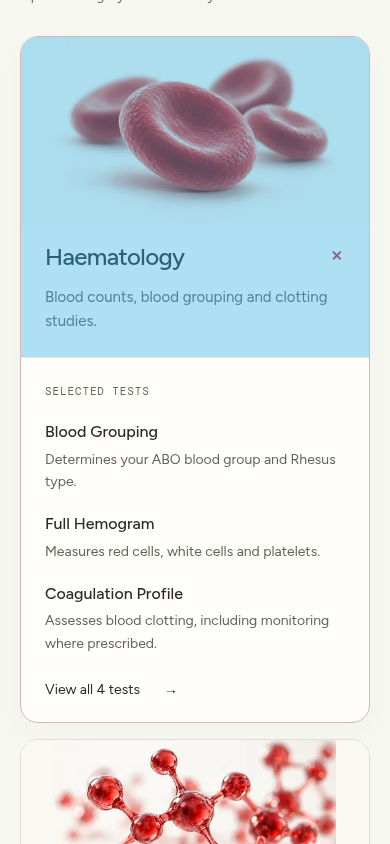
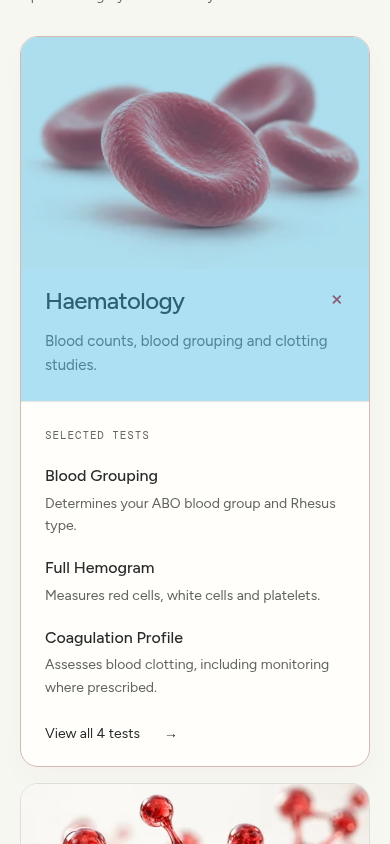
Fit service images edge to edge at their natural aspect ratio

Changed region(s): [[0.0308, 0.0616, 0.9538, 0.8318], [0.1231, 0.8626, 0.9538, 1.0], [0.9231, 0.8318, 0.9538, 0.8626]]

diff --git a/src/style.css b/src/style.css
@@ -107,9 +107,9 @@
 @media(prefers-reduced-motion:reduce){.service-card,.service-art,.service-card-toggle{transition:none}}
 
 /* Photographic scientific studies: image-only motion, text remains still. */
-.service-card-visual{height:196px;background:#faf8f3}
+.service-card-visual{height:auto;aspect-ratio:3/2;background:#faf8f3}
 .service-art{display:block;width:100%;height:100%;object-fit:contain;opacity:.32;filter:saturate(.7);transform:scale(1);transition:opacity .4s,transform .7s,filter .4s}
 .service-card:hover .service-art,.service-card:focus-within .service-art,.service-card[open] .service-art{opacity:1;filter:saturate(1);transform:scale(1.045)}
 @media(hover:none){.service-art{opacity:1;filter:none;transform:none}.service-card[open] .service-art{transform:none}}
-@media(max-width:600px){.service-card-visual{height:188px}.service-art{height:100%}}
+@media(max-width:600px){.service-card-visual{height:auto}.service-art{height:100%}}
 @media(prefers-reduced-motion:reduce){.service-art{transition:none;transform:none!important}}
